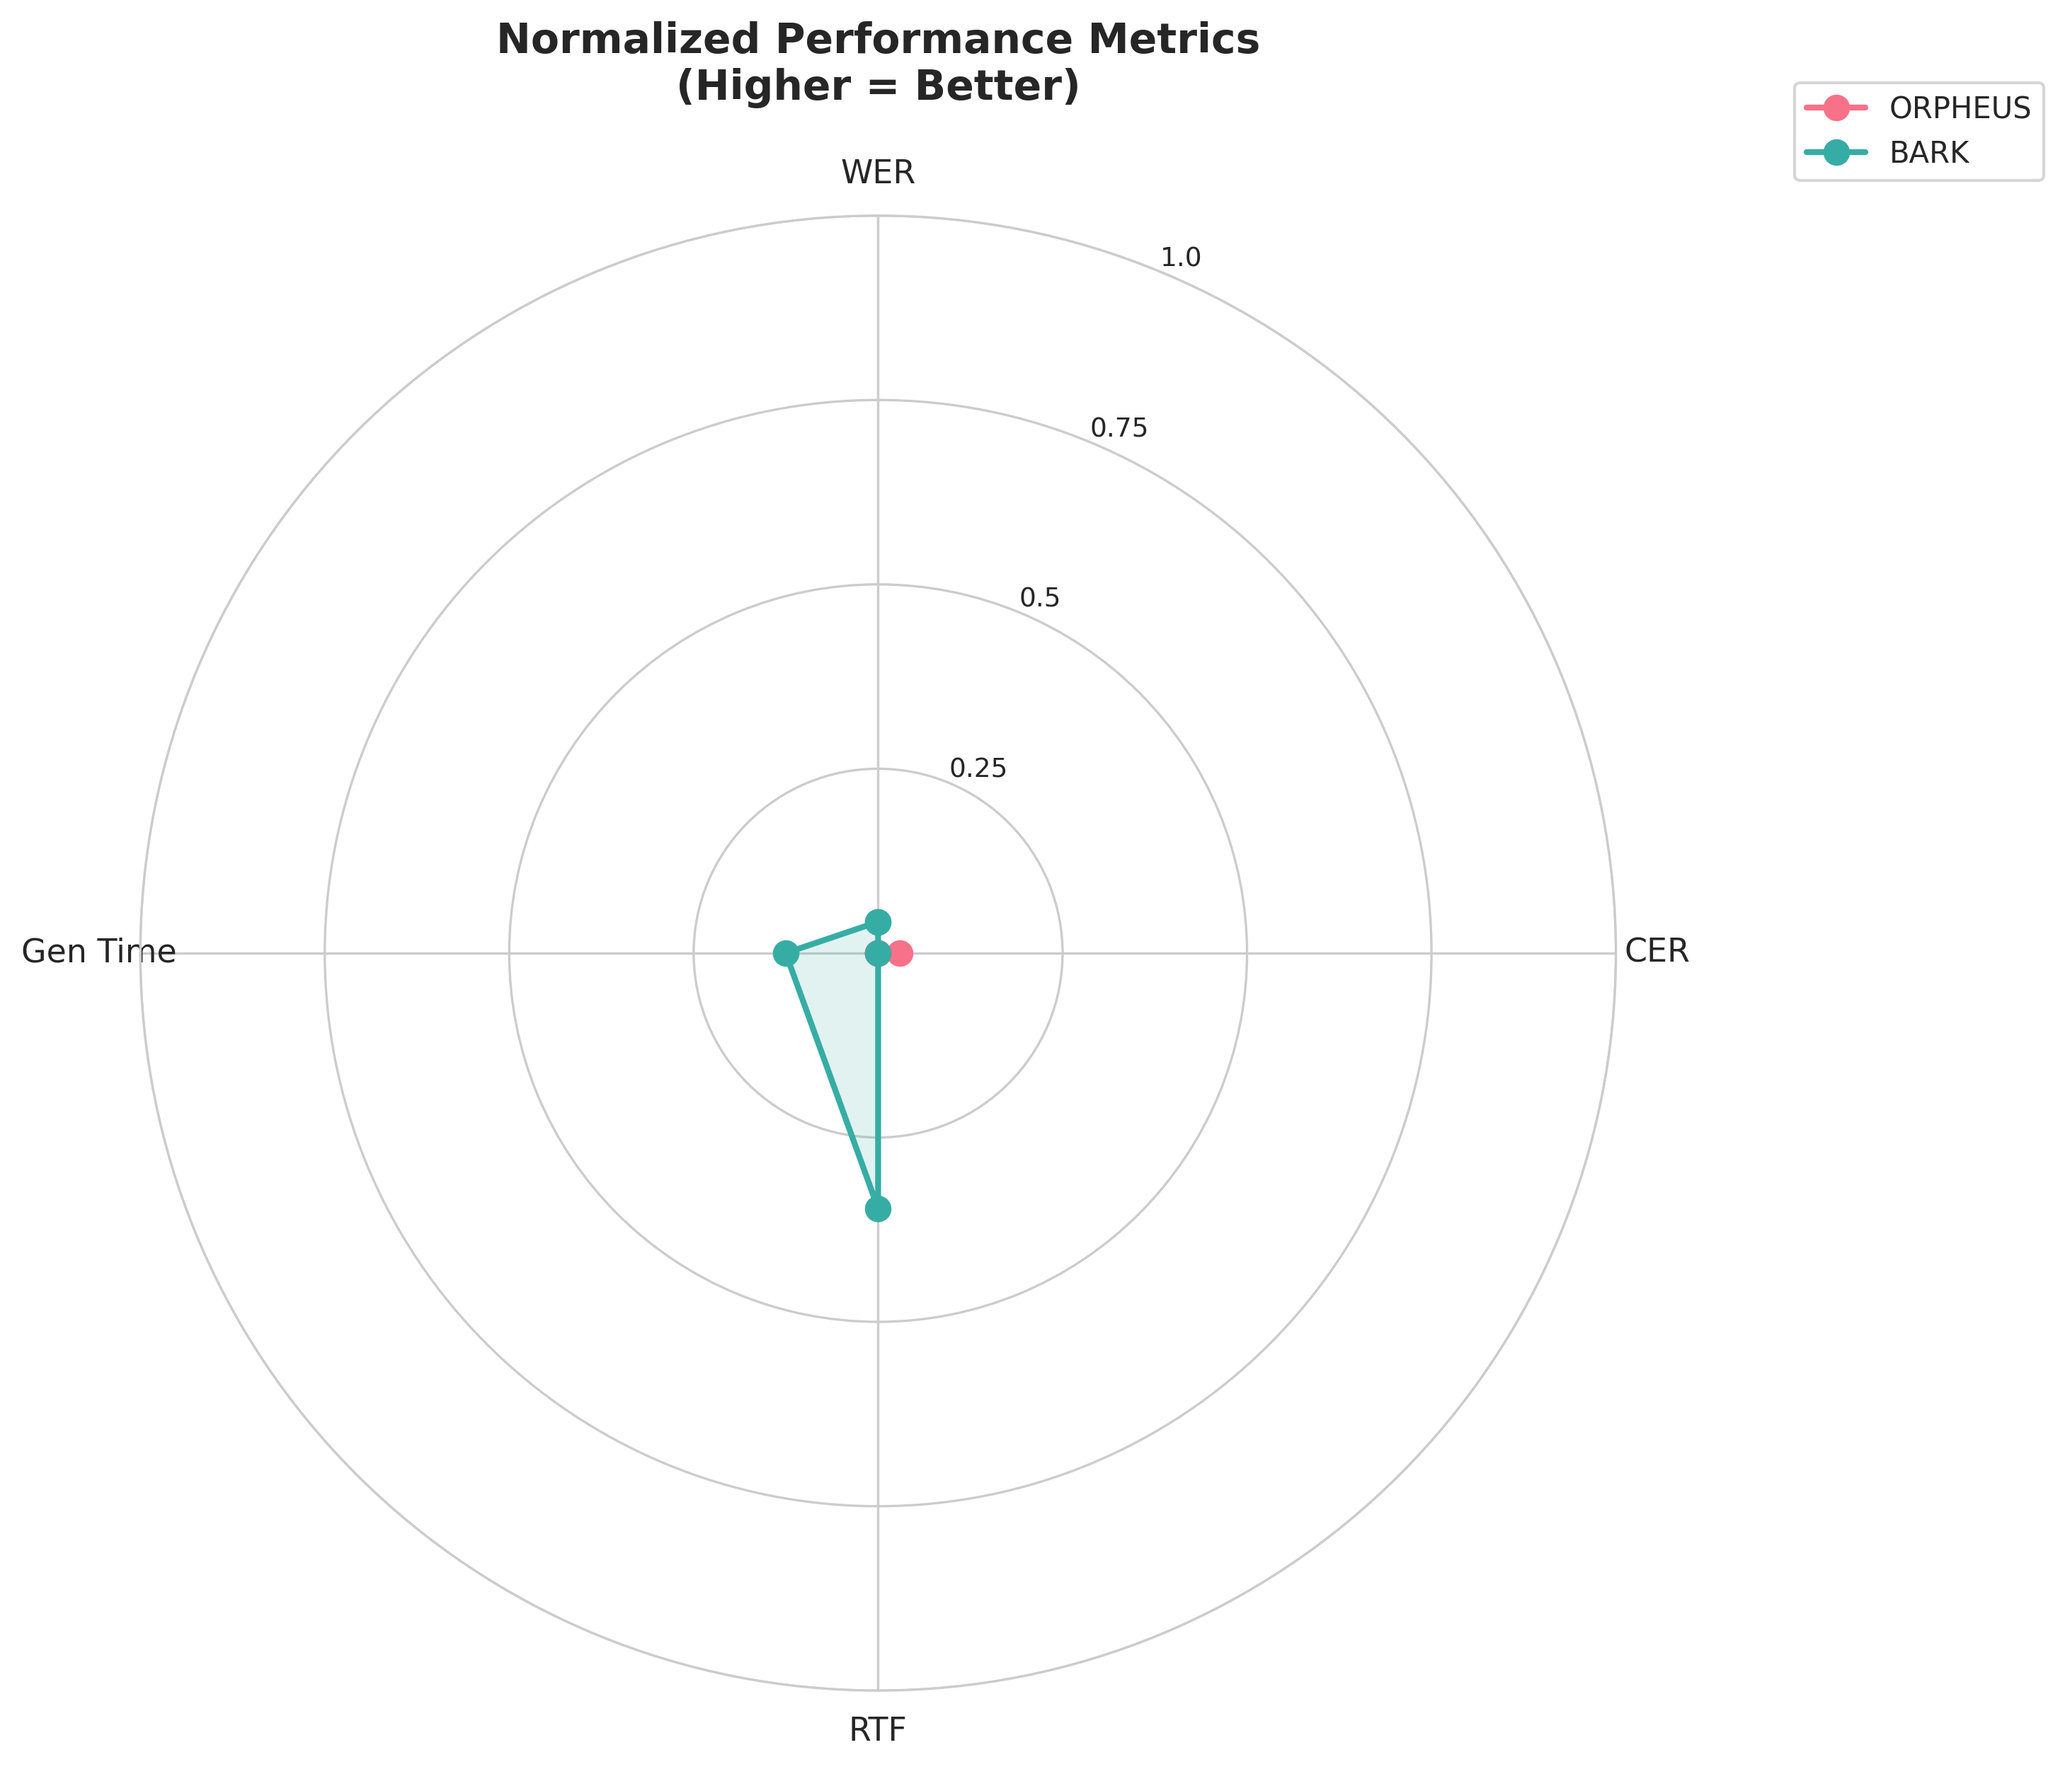
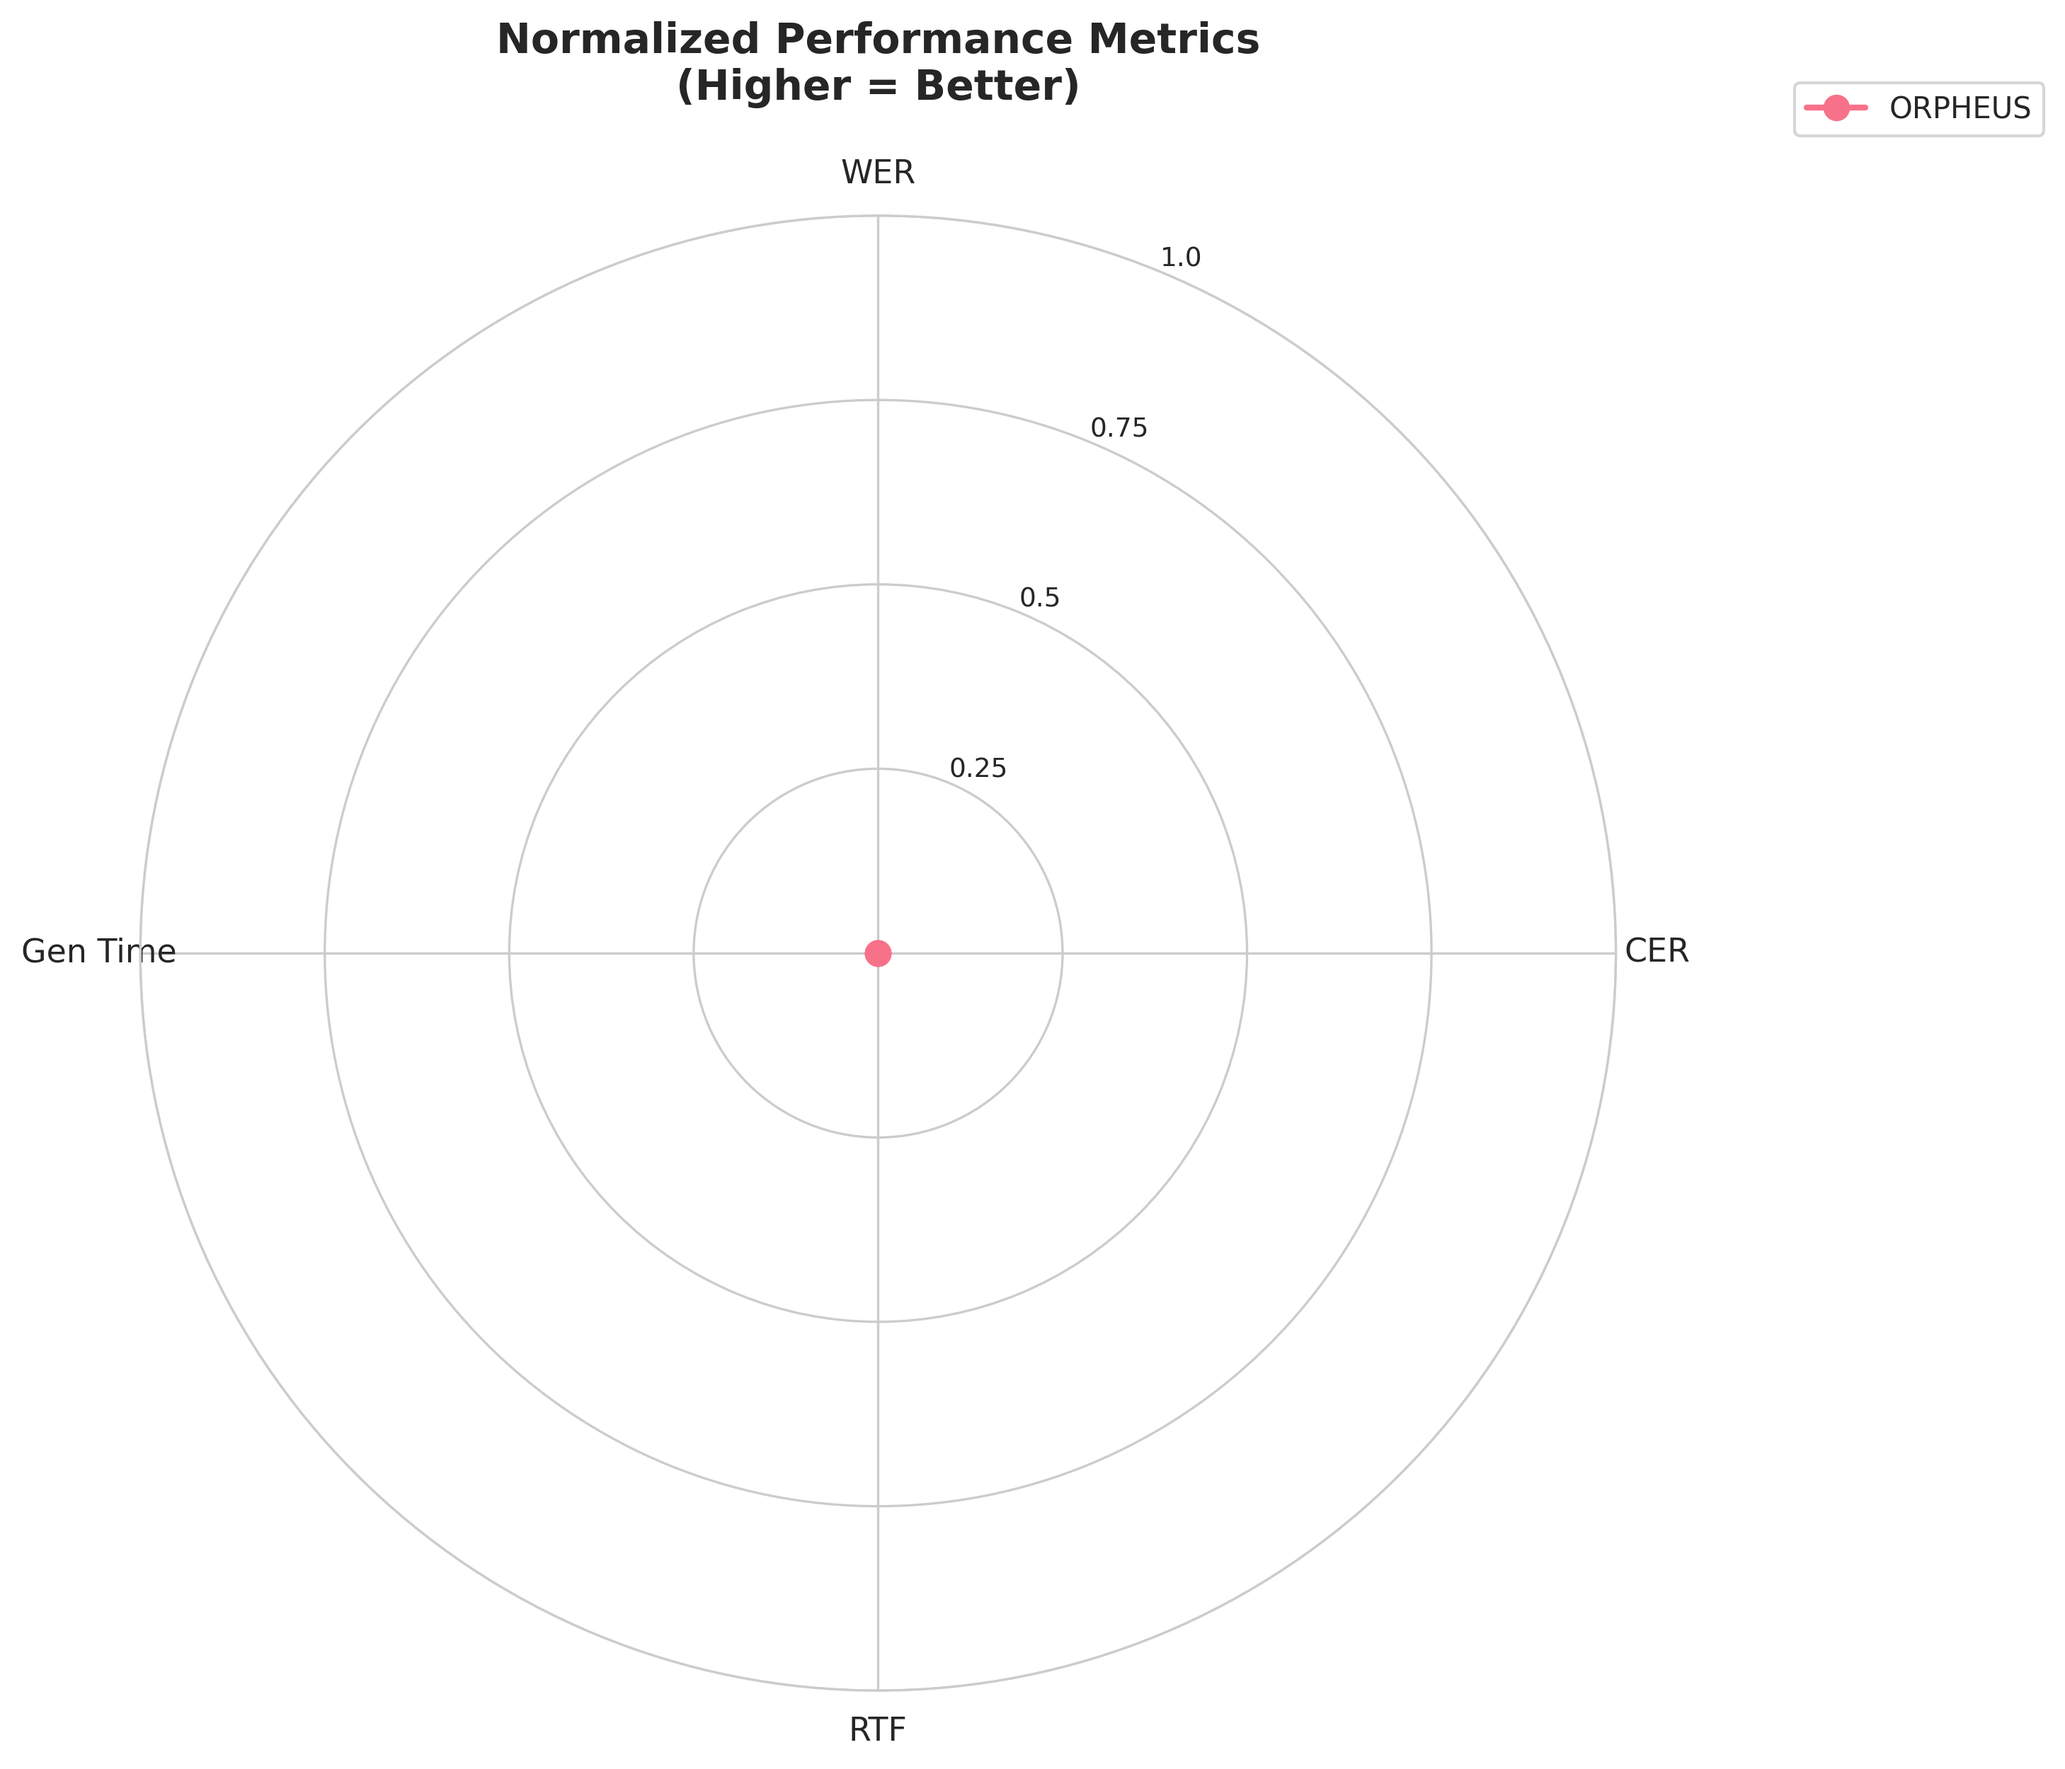
Small updates on tts benchmark script, new run with 100 samples for orpheus only (took 25min)

Changed region(s): [[0.3744, 0.4992, 0.4368, 0.6864], [0.8735, 0.0624, 0.9671, 0.0936]]

diff --git a/benchmark/tts/benchmark_tts.py b/benchmark/tts/benchmark_tts.py
@@ -35,6 +35,7 @@ calculate_rtf = shared_metrics.calculate_rtf
 logging.basicConfig(
     level=logging.INFO,
     format='%(asctime)s - %(levelname)s - %(message)s',
+    datefmt='%Y-%m-%d %H:%M:%S'
     handlers=[
         logging.StreamHandler(),
         logging.FileHandler('benchmark.log')
@@ -348,9 +349,20 @@ def main():
     dataset_config = benchmark.config['dataset']
     sample_csv = benchmark.results_dir / "benchmark_sample.csv"
     
+    # Load existing sample if available and verify size
     if sample_csv.exists():
         logger.info(f"Loading existing sample from {sample_csv}")
         data_sample = pd.read_csv(sample_csv)
+        if len(data_sample) != dataset_config['sample_size']:
+            logger.warning(f"Existing sample size ({len(data_sample)}) does not match configured size ({dataset_config['sample_size']}). Creating new sample.")
+            data_sample = create_benchmark_sample(
+                metadata_path=dataset_config['metadata_path'],
+                sample_size=dataset_config['sample_size'],
+                output_path=str(sample_csv),
+                strategy=dataset_config['sampling_strategy'],
+                seed=dataset_config['random_seed']
+            )
+            logger.info(f"New sample created with {len(data_sample)} samples.")
     else:
         logger.info("Creating new benchmark sample...")
         data_sample = create_benchmark_sample(
